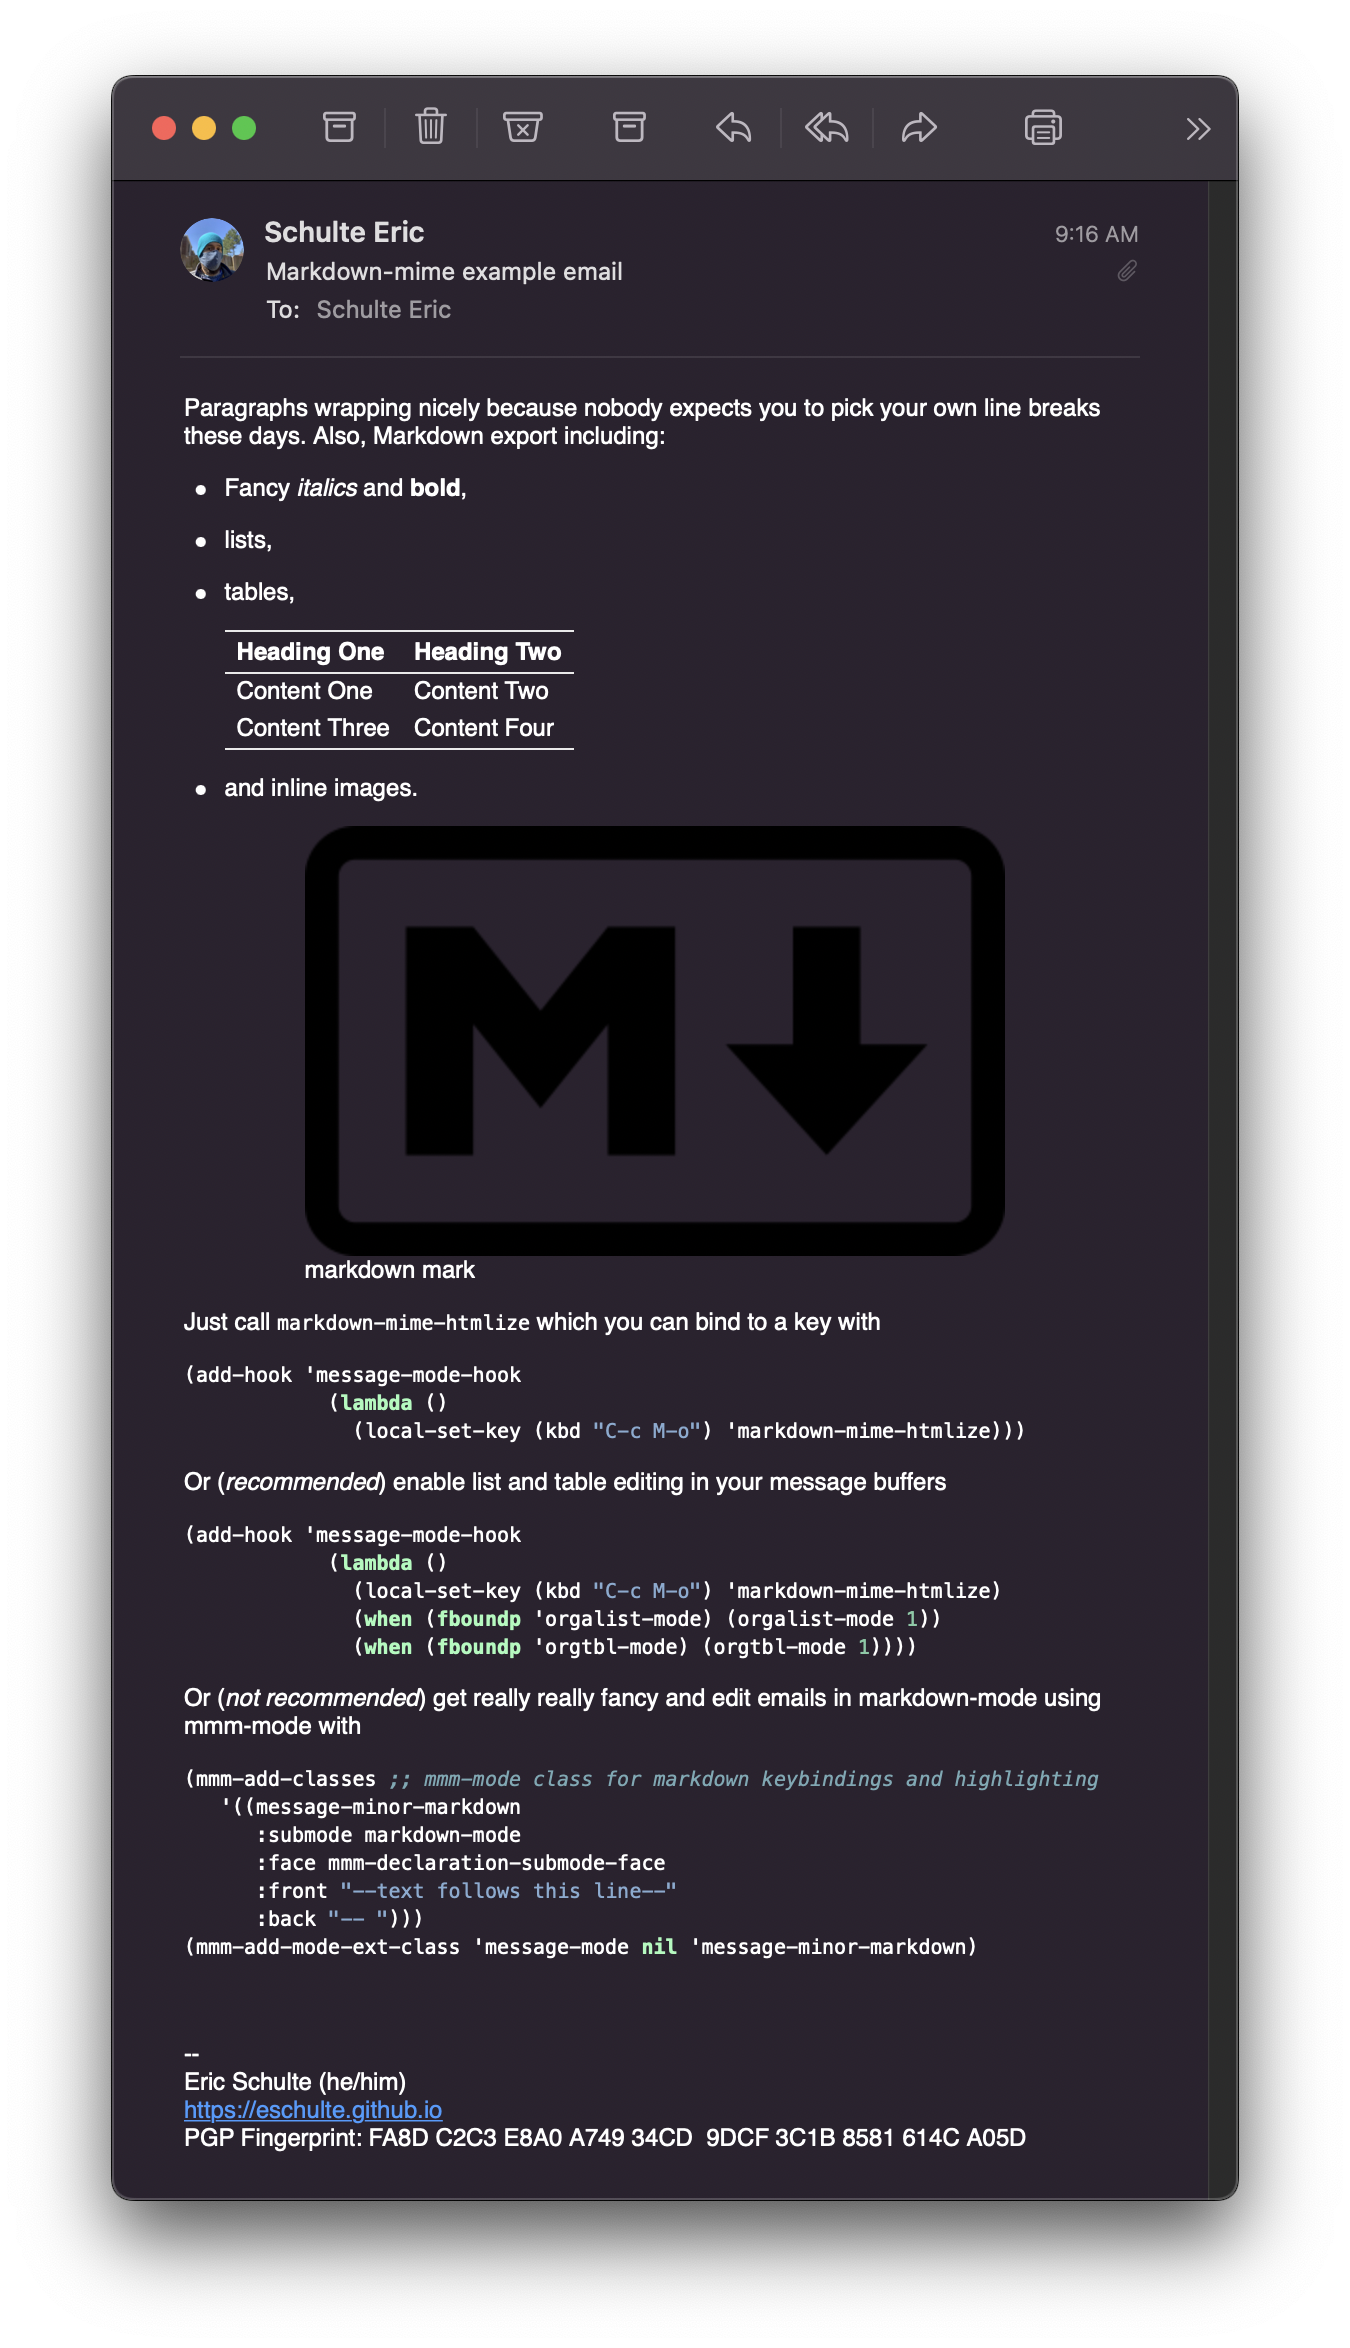
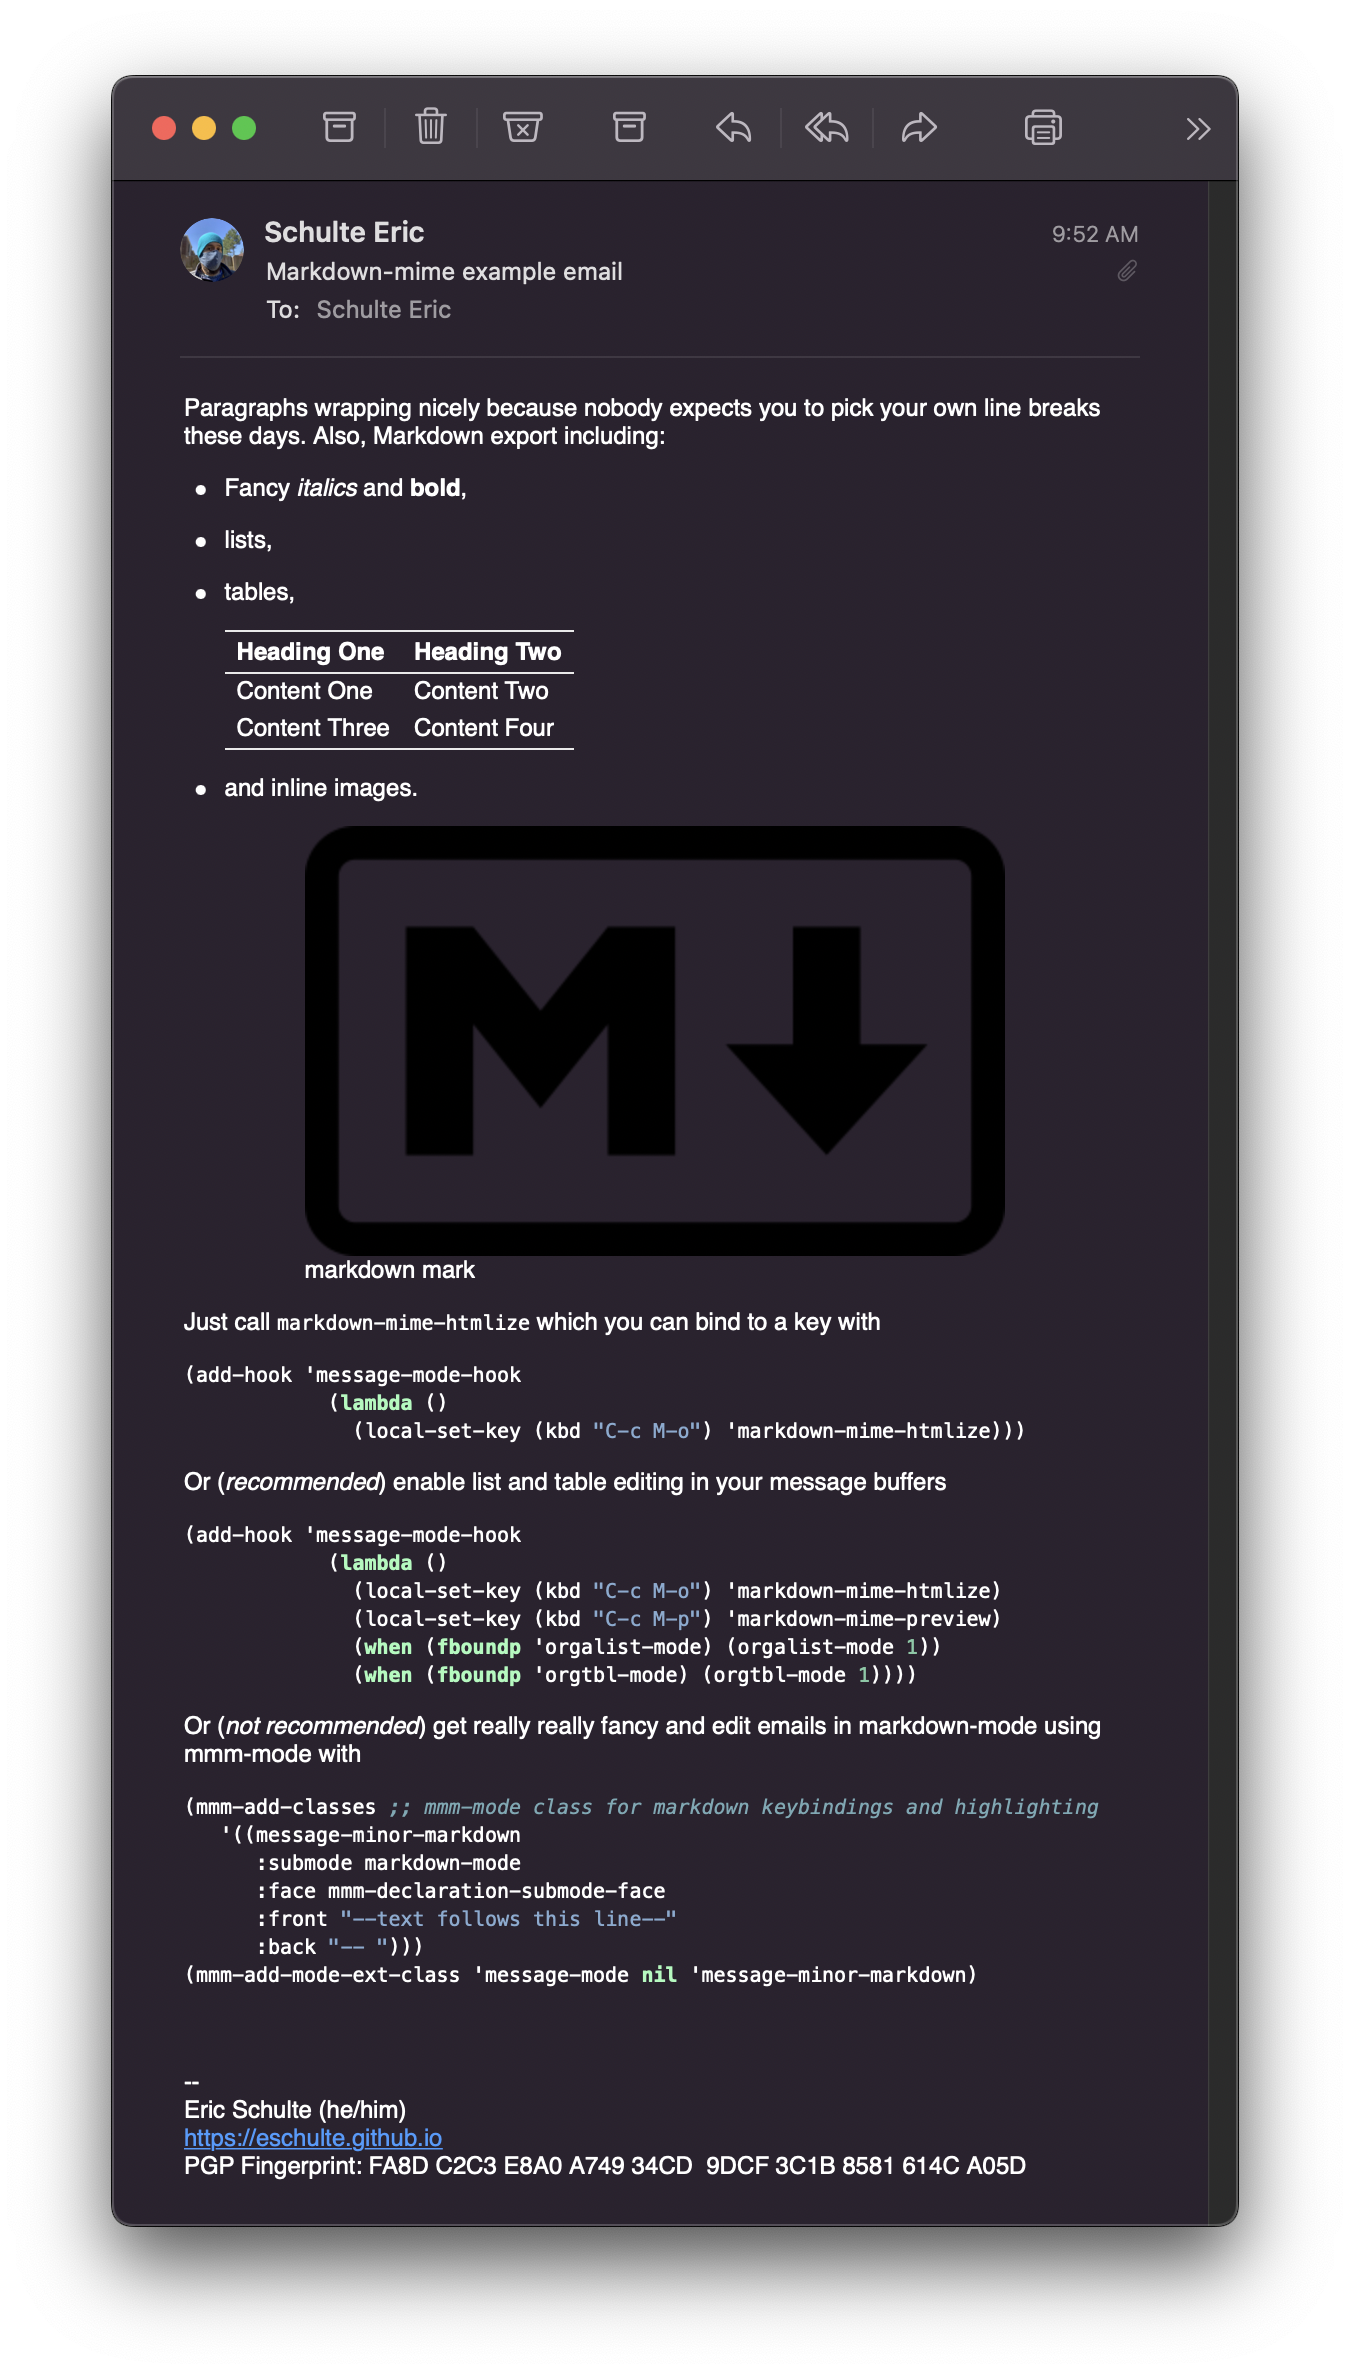
Add an interactive markdown-mime-preview function
Just in case you don't trust the export in every case (yet).

diff --git a/README.md b/README.md
@@ -47,6 +47,7 @@ For example the following message buffer:
     (add-hook 'message-mode-hook
                 (lambda ()
                   (local-set-key (kbd "C-c M-o") 'markdown-mime-htmlize)
+                  (local-set-key (kbd "C-c M-p") 'markdown-mime-preview)
                   (when (fboundp 'orgalist-mode) (orgalist-mode 1))
                   (when (fboundp 'orgtbl-mode) (orgtbl-mode 1))))
     ```
